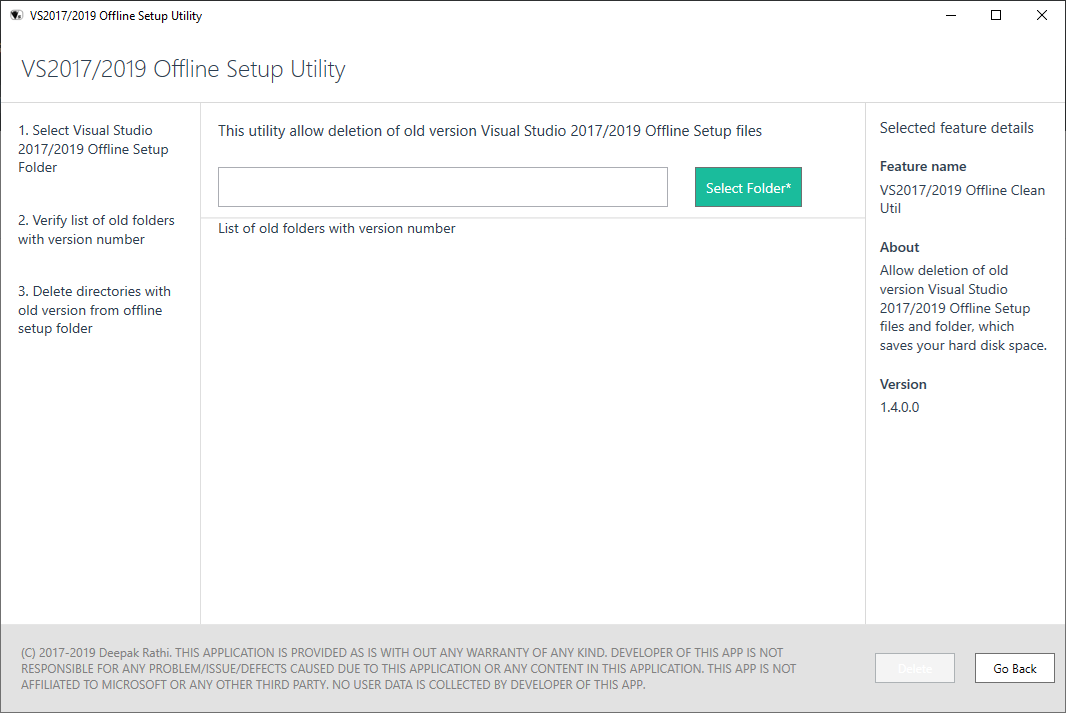
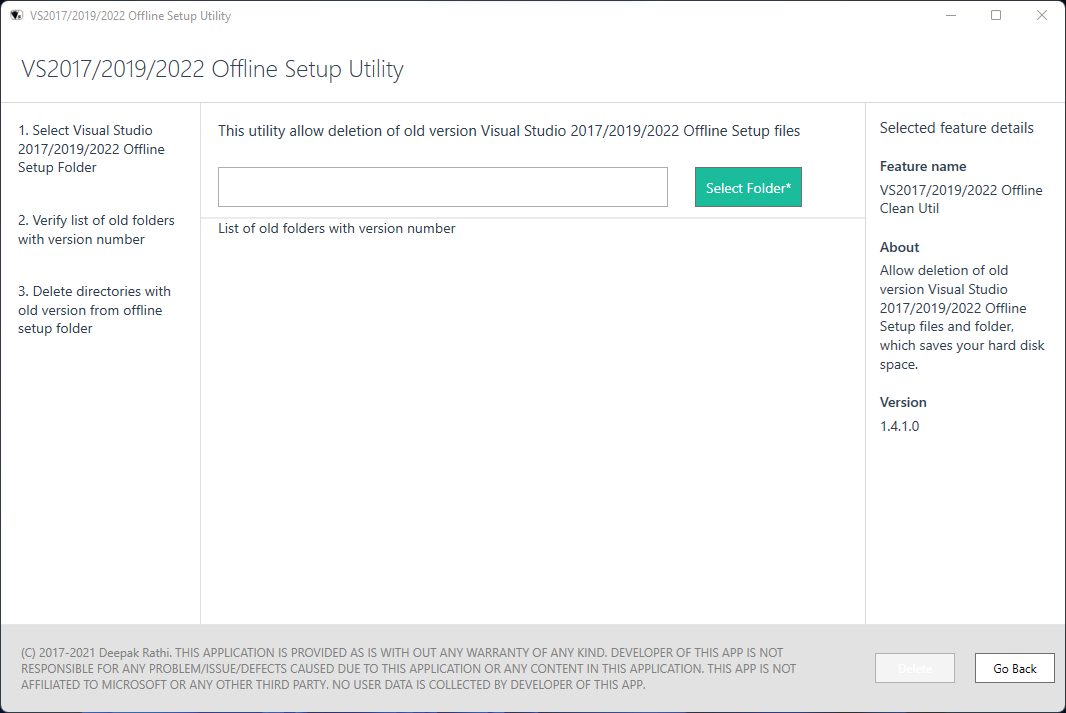
Updated app screenshots

diff --git a/README.md b/README.md
@@ -4,7 +4,7 @@ This utility also allow selecting your own workload and download offline setup f
 
 You can download and run the program your self by building from source code or just download the "[Setup](https://github.com/deepak-rathi/VS2017OfflineSetupUtility/releases)" and run "VS2017OfflineSetupUtility.exe".
 
-Application Screeshots(old):
+Application Screeshots:
 
 ![alt tag](https://github.com/deepak-rathi/VS2017OfflineSetupUtility/blob/master/Screenshots/HomePage.PNG)
 
